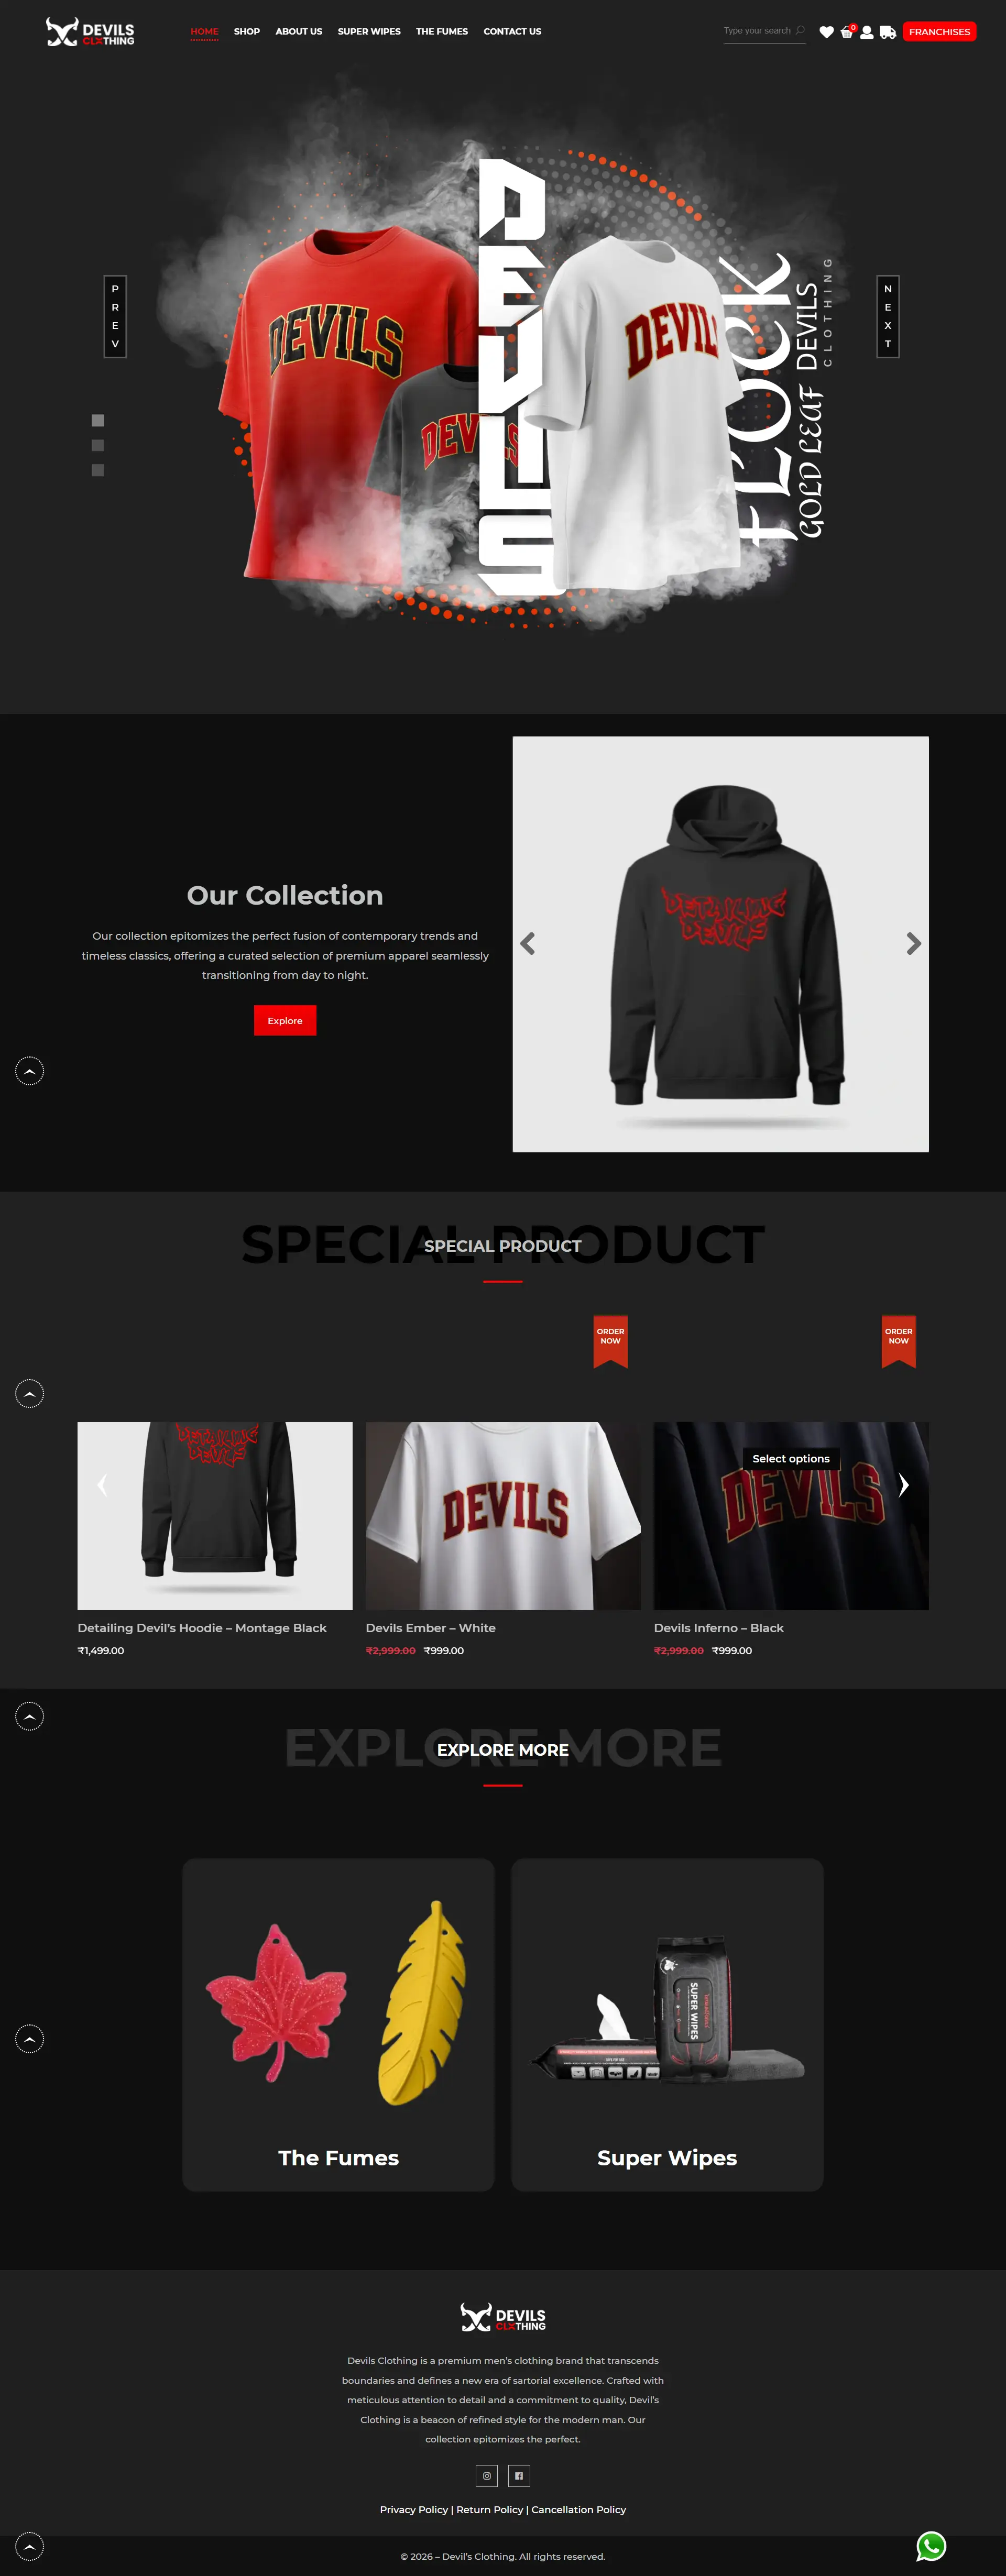
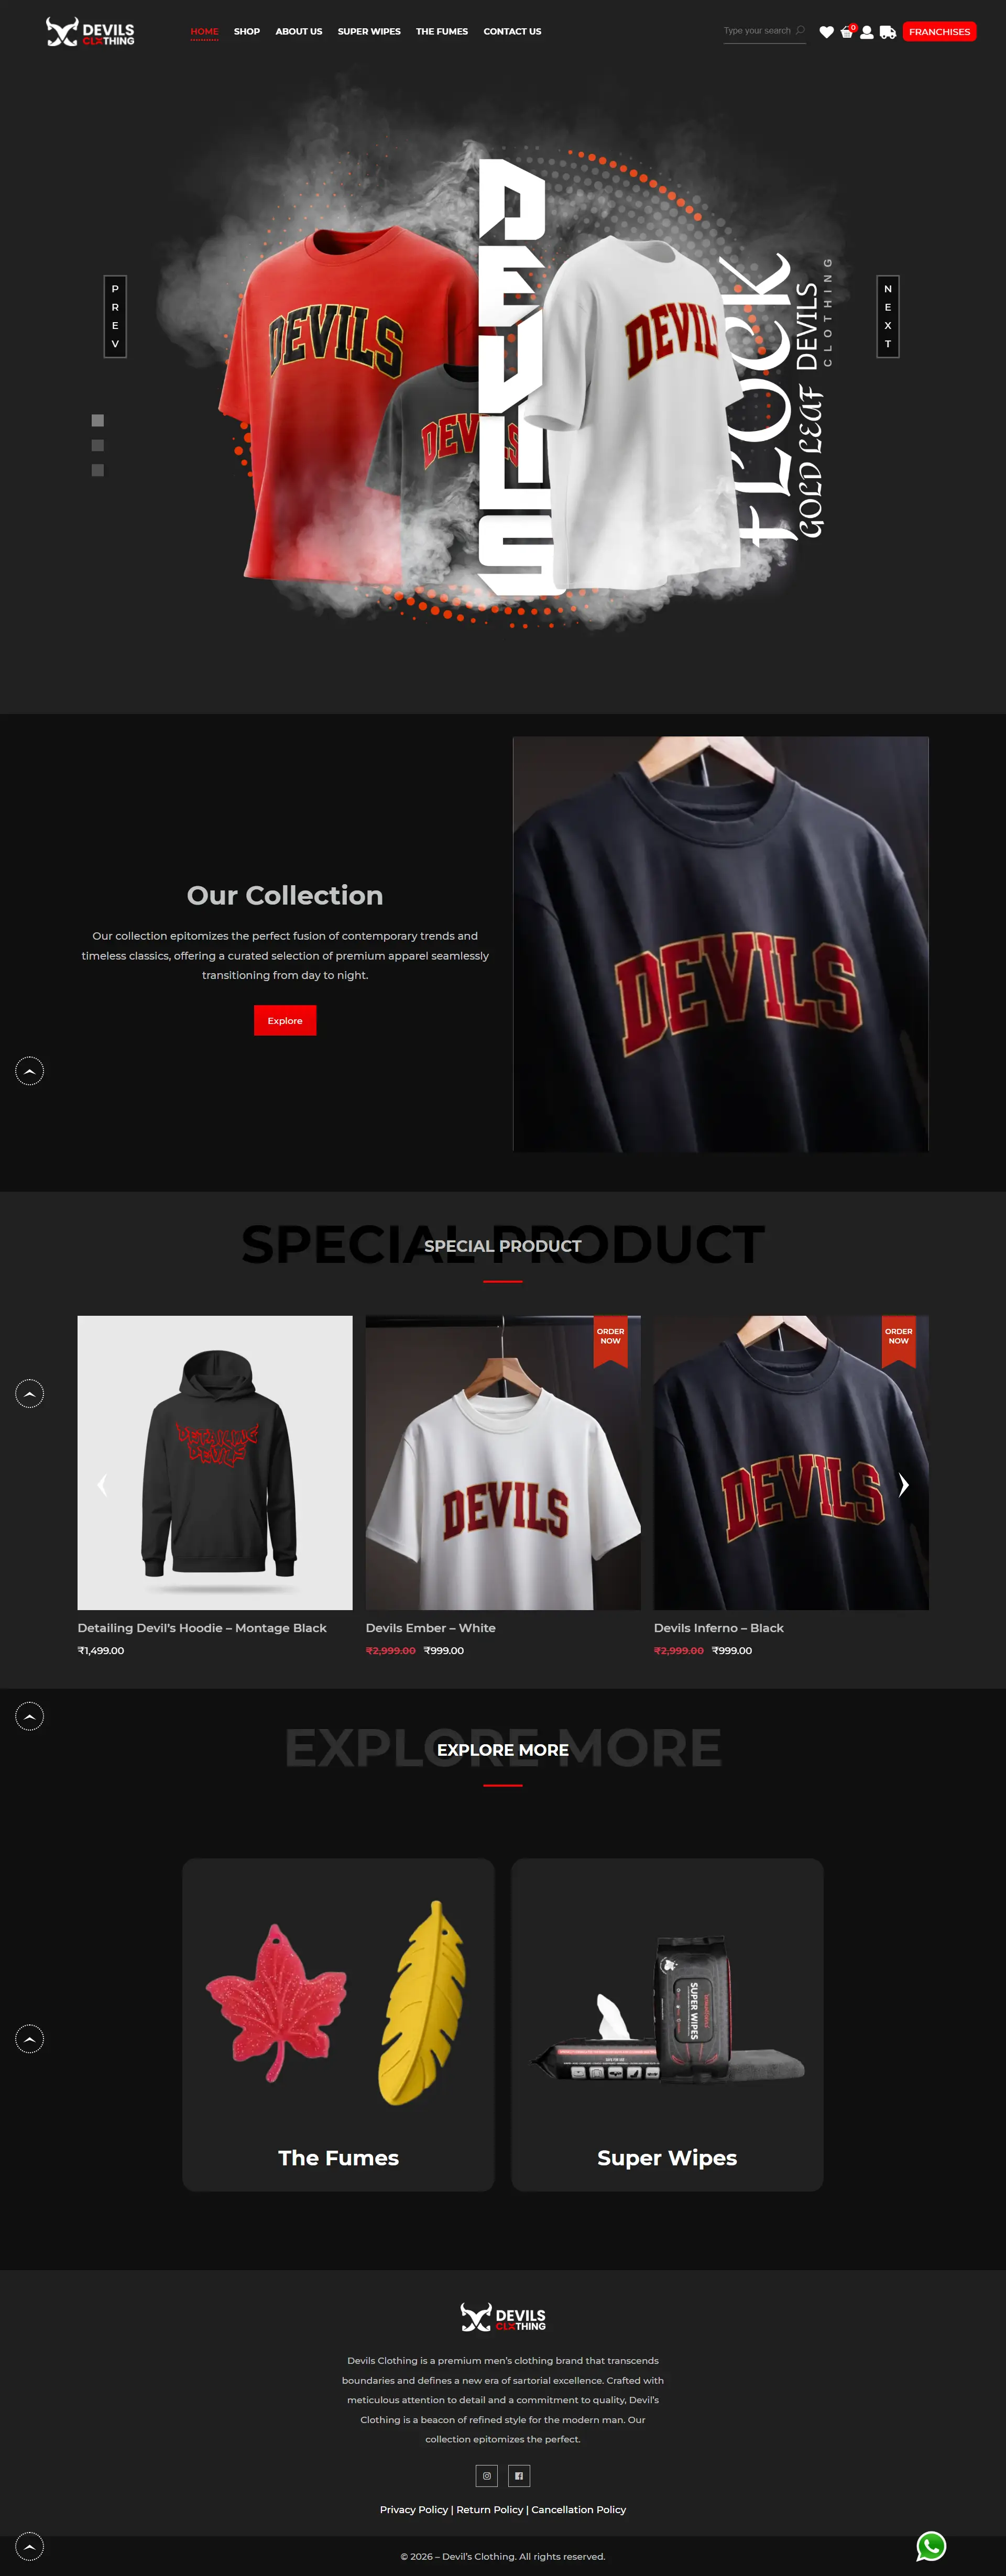
update

diff --git a/assest/js/projectCard.js b/assest/js/projectCard.js
@@ -24,20 +24,40 @@ const projects = [
     title: "",
     link: "https://www.devilscustoms.com/",
   },
-   {
+  {
     image: "assest/image/project/araba-cookis.webp",
     title: "",
-    link: "https://www.arabacoffee.com/araba-cookie",
+    link: "",
   },
-   {
+  {
     image: "assest/image/project/araba-coffe.webp",
     title: "",
     link: "https://www.arabacoffee.com/",
   },
-   {
+  {
     image: "assest/image/project/dd-site.webp",
     title: "",
-    link: "https://www.webnew.detailingdevils.com/",
+    link: "",
+  },
+  {
+    image: "assest/image/project/mscreationonline.webp",
+    title: "",
+    link: "https://www.mscreationonline.com/",
+  },
+  {
+    image: "assest/image/project/datagami.webp",
+    title: "",
+    link: "https://www.datagami.in/",
+  },
+  {
+    image: "assest/image/project/sparklineworkforce.webp",
+    title: "",
+    link: "https://www.sparklineworkforce.in/",
+  },
+  {
+    image: "assest/image/project/investo-advice.webp",
+    title: "",
+    link: "https://investoadvice.com/",
   },
 ];
 

diff --git a/index.html b/index.html
@@ -83,7 +83,7 @@
             <li><a href="#project">Project</a></li>
             <li><a href="#contact">Contact</a></li>
           </ul>
-          <div class="btn-cv">
+          <!-- <div class="btn-cv">
             <a href="">
               <span> </span>
               <span> </span>
@@ -91,7 +91,7 @@
               <span> </span>
               Download CV
             </a>
-          </div>
+          </div> -->
         </nav>
       </div>
     </div>
@@ -130,9 +130,9 @@
           <li><a href="">Project</a></li>
           <li><a href="#contact">Contact</a></li>
         </ul>
-        <div class="mob-cv-btn">
-          <a href="assest/image/pdf/myresumedgn.pdf"> Download CV </a>
-        </div>
+        <!-- <div class="mob-cv-btn">
+          <a href=""> Download CV </a>
+        </div> -->
         <div>
           <h6 class="follow-icon" id="mob-follow-icon">
             <a href="https://www.linkedin.com/in/mkaleem56/" target="_blank">
@@ -375,7 +375,7 @@
                     <span> Okhla New Delhi</span>
                   </h5>
                   <h6>
-                    <span> Software Engineer</span> <span><i class="bi bi-calendar2-day"></i> Sep/2024 --
+                    <span> Software Engineer</span> <span><i class="bi bi-calendar2-day"></i> Sep/2023 --
                       Nov/2025</span>
                   </h6>
                 </div>
@@ -452,7 +452,7 @@
     </div>
     <div class="container">
       <div class="row" id="project-list">
-        
+
       </div>
     </div>
   </section>

diff --git a/assest/css/styles.css b/assest/css/styles.css
@@ -1060,7 +1060,7 @@ header.show {
     height: 450px;
     overflow: hidden;
     position: relative;
-    z-index: 9999;
+    z-index: 9;
 }
 
 .project-card-img img {